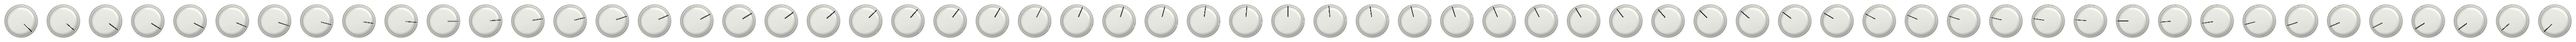
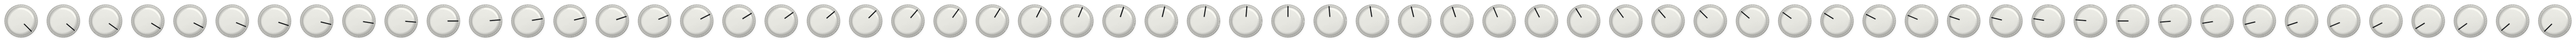
TRENCH look and knob rig, 2 Oct evening
Plate: the display well is cut out of the blue plate and the LCD sits behind it, one pixel shorter at the bottom. The engraved dark TRENCH wordmark is back. The log grid is stronger.
Wheels: only the lit ribs take the lamp colour; Echo brightens those ribs instead of washing the wheel.
KEY: the box is always visible, OFF or the note, with a V arrow on hover; no control takes keyboard focus.
Knob: white strip with a redrawn indicator; the separate shadow image is dropped ahead of a strip with the shadow baked in.
Render rig: Mentor 4333.6001 knob job, sea-salt matte plastic and ink presets, contact-shadow pass, baked shadow, box offsets, strip rotation about the shaft for any front axis. FaceShot can load a body and a KEY choice for the single shot.

Claude-Session: https://claude.ai/code/session_01DBjXcDE6fukEHQE4GySFU2

diff --git a/tools/render_rig/render.py b/tools/render_rig/render.py
@@ -118,11 +118,17 @@ def main():
     os.makedirs(raw_dir, exist_ok=True)
     scene, obj, extras, catcher, mesh_path, ss = build_scene(job, os.path.dirname(job_path))
     written = []
+    baked = None
     if catcher:
         shadow = render_shadow(scene, os.path.join(raw_dir, "shadow.png"), [obj, *extras], catcher, job["shadow"])
+        if "contact" in job["shadow"]:
+            contact = render_shadow(scene, os.path.join(raw_dir, "contact.png"), [obj, *extras], catcher, job["shadow"]["contact"])
+            shadow[..., 3] = 1.0 - (1.0 - shadow[..., 3]) * (1.0 - contact[..., 3])
         target = os.path.join(out_dir, f"{job['name']}_shadow.png")
         post.write(target, post.downsample(shadow, ss))
         written.append(target)
+        if job.get("bake_shadow"):
+            baked = post.downsample(shadow, ss)
     for name, state in job.get("states", {"default": {}}).items():
         merged = apply_state(job, obj, extras, state)
         strip_spec = job.get("filmstrip")
@@ -131,17 +137,17 @@ def main():
             for i in range(strip_spec["frames"]):
                 t = i / max(1, strip_spec["frames"] - 1)
                 angle = math.radians(strip_spec["start_deg"] + t * strip_spec["sweep_deg"])
-                axis, sign = meshes.AXES[job["part"]["front"]]
-                front = [0.0, 0.0, 0.0]
-                front[axis] = float(sign)
-                obj.delta_rotation_quaternion = Quaternion(front, -angle)
+                obj.delta_rotation_quaternion = Quaternion((0.0, 0.0, 1.0), -angle)
                 for e in extras:
                     e.rotation_mode = "QUATERNION"
                     e.delta_rotation_quaternion = Quaternion((0.0, 0.0, 1.0), -angle)
-                frames.append(render_frame(scene, os.path.join(raw_dir, f"{name}_{i:03d}.png"), ss, merged))
+                frame = render_frame(scene, os.path.join(raw_dir, f"{name}_{i:03d}.png"), ss, merged)
+                frames.append(post.over(frame, baked) if baked is not None else frame)
             final = post.strip(frames)
         else:
             final = render_frame(scene, os.path.join(raw_dir, f"{name}.png"), ss, merged)
+            if baked is not None:
+                final = post.over(final, baked)
         target = os.path.join(out_dir, f"{job['name']}_{name}.png")
         post.write(target, final)
         written.append(target)

diff --git a/plugin/source/ui/Theme.h b/plugin/source/ui/Theme.h
@@ -203,6 +203,31 @@ inline void drawBayCaption (juce::Graphics& g, juce::Rectangle<float> r,
     g.drawFittedText (text.toUpperCase(), r.toNearestInt(), juce::Justification::centred, 1);
 }
 
+inline void drawEngravedText (juce::Graphics& g, const juce::String& text,
+                              juce::Rectangle<int> area, juce::Justification just,
+                              juce::Colour ink, float catchAlpha = 0.45f,
+                              juce::Colour catchColour = juce::Colour (0xffe7dec9),
+                              bool extraWeight = false)
+{
+    const auto boneWhite = catchColour;
+    const auto edge = boneWhite.withAlpha (catchAlpha);
+    const auto soft = boneWhite.withAlpha (catchAlpha * 0.18f);
+    g.setColour (soft);
+    g.drawFittedText (text, area.translated (-2, 0), just, 1);
+    g.drawFittedText (text, area.translated ( 2, 0), just, 1);
+    g.drawFittedText (text, area.translated (0, -2), just, 1);
+    g.drawFittedText (text, area.translated (0,  2), just, 1);
+    g.setColour (edge);
+    g.drawFittedText (text, area.translated (0, -1), just, 1);
+    g.drawFittedText (text, area.translated (0,  1), just, 1);
+    g.setColour (boneWhite.withAlpha (catchAlpha * 0.72f));
+    g.drawFittedText (text, area.translated (-1, 0), just, 1);
+    g.drawFittedText (text, area.translated ( 1, 0), just, 1);
+    g.setColour (ink);
+    g.drawFittedText (text, area, just, 1);
+    if (extraWeight)
+        g.drawFittedText (text, area.translated (1, 0), just, 1);
+}
 inline void drawCrispText (juce::Graphics& g, juce::Rectangle<float> b, const juce::String& text,
                            float fontSize, juce::Colour colour, bool emphasis = false)
 {

diff --git a/plugin/source/ui/KeySnapBox.h b/plugin/source/ui/KeySnapBox.h
@@ -71,8 +71,6 @@ public:
         }
         return false;
     }
-    void focusGained (FocusChangeType) override { repaint(); }
-    void focusLost (FocusChangeType) override { repaint(); }
     void paint (juce::Graphics& g) override
     {
         auto b = getLocalBounds().toFloat();
@@ -90,14 +88,20 @@ public:
             g.setColour (t.rollerIllumination().withAlpha (0.28f));
             g.fillRoundedRectangle (box.reduced (2.0f), juce::jmax (1.5f, height * 0.17f - 1.5f));
         }
+        auto text = box.reduced (4.0f, 0.0f);
+        if (hover)
+        {
+            const auto arrow = text.removeFromRight (9.0f).withSizeKeepingCentre (6.0f, 3.5f);
+            juce::Path v;
+            v.startNewSubPath (arrow.getX(), arrow.getY());
+            v.lineTo (arrow.getCentreX(), arrow.getBottom());
+            v.lineTo (arrow.getRight(), arrow.getY());
+            g.setColour (juce::Colour (0xff2a2722));
+            g.strokePath (v, juce::PathStrokeType (1.2f));
+        }
         g.setFont (displayFont (11.5f));
         g.setColour (juce::Colour (0xff2a2722));
-        g.drawText (displayText(), box.reduced (4.0f, 0.0f).toNearestInt(), juce::Justification::centred, false);
-        if (hasKeyboardFocus (true))
-        {
-            g.setColour (t.labelInk());
-            g.drawRoundedRectangle (box.reduced (1.0f), height * 0.17f, 1.0f);
-        }
+        g.drawText (displayText(), text.toNearestInt(), juce::Justification::centred, false);
     }
 private:
     void toggle()

diff --git a/plugin/source/ui/DeskKnob.h b/plugin/source/ui/DeskKnob.h
@@ -22,7 +22,6 @@ public:
         setWantsKeyboardFocus (false);
         setRepaintsOnMouseActivity (true);
         strip = juce::ImageCache::getFromMemory (BinaryData::trench_knob_white_strip_png, BinaryData::trench_knob_white_strip_pngSize);
-        shadow = juce::ImageCache::getFromMemory (BinaryData::trench_knob_black_shadow_png, BinaryData::trench_knob_black_shadow_pngSize);
         if (driveParam != nullptr)
             driveAttachment = std::make_unique<juce::ParameterAttachment> (*driveParam, [this] (float) { updateTooltip(); repaint(); });
         updateTooltip();
@@ -80,7 +79,6 @@ public:
             const auto snap = [scale] (float v) { return std::round (v * scale) / scale; };
             const float x0 = snap (c.x - frameD * 0.5f), y0 = snap (c.y - frameD * 0.5f);
             const float side = snap (c.x + frameD * 0.5f) - x0;
-            g.drawImage (shadow, { x0, y0, side, side }, juce::RectanglePlacement::stretchToFit);
             g.drawImage (strip.getClippedImage ({ frame * frameSize, 0, frameSize, frameSize }),
                          { x0, y0, side, side }, juce::RectanglePlacement::stretchToFit);
         }
@@ -165,7 +163,7 @@ public:
 
 private:
     bool legendVisible = true;
-    juce::Image strip, shadow;
+    juce::Image strip;
     Theme t;
     juce::RangedAudioParameter* driveParam = nullptr;
     juce::String label;

diff --git a/tools/render_rig/rig/materials.py b/tools/render_rig/rig/materials.py
@@ -29,7 +29,8 @@ PRESETS = {
     "black_anodised": dict(Base_Color=(0.02, 0.02, 0.022, 1), Metallic=1.0, Roughness=0.35),
     "black_plastic": dict(Base_Color=(0.012, 0.012, 0.013, 1), Roughness=0.42, Coat_Weight=0.3),
     "bone_plastic":  dict(Base_Color=(0.72, 0.71, 0.66, 1), Roughness=0.5),
-    "sea_salt_plastic": dict(Base_Color=(0.93, 0.89, 0.78, 1), Roughness=0.62, Coat_Weight=0.0, Specular_IOR_Level=0.35),
+    "sea_salt_plastic": dict(Base_Color=(0.93, 0.89, 0.78, 1), Roughness=0.8, Coat_Weight=0.0, Specular_IOR_Level=0.15),
+    "ink":           dict(Base_Color=(0.003, 0.003, 0.004, 1), Roughness=1.0, Specular_IOR_Level=0.0),
     "legend":        dict(Base_Color=(0.92, 0.90, 0.86, 1), Roughness=0.45),
     "cavity":        dict(Base_Color=(0.01, 0.012, 0.013, 1), Roughness=0.6),
     "clear_glass":   dict(Base_Color=(1, 1, 1, 1), Transmission_Weight=1.0, Roughness=0.03, IOR=1.49),

diff --git a/plugin/source/ui/WheelControl.h b/plugin/source/ui/WheelControl.h
@@ -261,7 +261,7 @@ public:
                         const auto c = data.getPixelColour (x, y);
                         if (c.getSaturation() > 0.45f && std::abs (c.getHue() - lampHue) < 0.06f)
                             data.setPixelColour (x, y, juce::Colour::fromHSV (c.getHue(), c.getSaturation() * 0.8f,
-                                                                              juce::jmin (1.0f, c.getBrightness() * 1.6f), c.getFloatAlpha()));
+                                                                              juce::jmin (1.0f, c.getBrightness() * 1.3f), c.getFloatAlpha()));
                     }
             }
             scaledIndex = frame;

diff --git a/plugin/source/ui/LabelsLayer.h b/plugin/source/ui/LabelsLayer.h
@@ -57,8 +57,8 @@ public:
                                 g.drawText (text, box.translated (dx, dy),
                                             juce::Justification::centredLeft, false);
                 }
-                g.setColour (t.textColour ("brandLabel", t.labelInk()));
-                g.drawText (text, box, juce::Justification::centredLeft, false);
+                drawEngravedText (g, text, box, juce::Justification::centredLeft,
+                                  t.textColour ("brandLabel", t.labelInk()), 0.45f);
             }
             const auto sr = t.rect ("brandSub");
             const float sfs = t.fontSize ("brandSub", 9.0f);

diff --git a/plugin/source/UiLayout.h b/plugin/source/UiLayout.h
@@ -52,7 +52,7 @@ public:
         layout.elements["inputReadout"] = { { 154.3f, 1336.0f, 174.4f, 61.2f },  15.5f, juce::Colour (0xff4a3520) };
         layout.elements["outputReadout"] = { { 484.3f, 1336.0f, 174.4f, 61.2f },  15.5f, juce::Colour (0xff4a3520) };
 
-        layout.elements["brandLabel"]   = { { 128.7f, 65.1f, 304.2f, 55.2f }, 17.5f, juce::Colour (0xfff4f7fa) };
+        layout.elements["brandLabel"]   = { { 128.7f, 65.1f, 304.2f, 55.2f }, 17.5f, juce::Colour (0xff0f0c09) };
 
         layout.elements["brandLabel"].text = "TRENCH";
         juce::Colour lamp (0xff96e028);

diff --git a/plugin/tools/FaceShot.cpp b/plugin/tools/FaceShot.cpp
@@ -165,6 +165,14 @@ int main()
 
     if (std::getenv ("TRENCH_FACESHOT_ECHO") != nullptr)
     {
+        if (const char* body = std::getenv ("TRENCH_SHOW_BODY"))
+        {
+            set (ParamID::body, bodyIndex (body));
+            set (ParamID::morph, 0.2f);
+            set (ParamID::q, 0.6f);
+        }
+        if (const char* key = std::getenv ("TRENCH_SHOW_KEY"))
+            set (ParamID::keySnap, (float) std::atoi (key));
         processor.setEchoArmed (true);
         shoot ("trench_face_echo");
         processor.editorBeingDeleted (editor);

diff --git a/tools/render_rig/rig/post.py b/tools/render_rig/rig/post.py
@@ -61,5 +61,14 @@ def downsample(rgba, factor):
     return out
 
 
+def over(top, bottom):
+    ta, ba = top[..., 3:4], bottom[..., 3:4]
+    a = ta + ba * (1.0 - ta)
+    out = np.zeros_like(top)
+    out[..., :3] = np.where(a > 1e-6, (top[..., :3] * ta + bottom[..., :3] * ba * (1.0 - ta)) / np.maximum(a, 1e-6), 0.0)
+    out[..., 3:4] = a
+    return out
+
+
 def strip(frames):
     return np.concatenate(frames, axis=1)

diff --git a/tools/render_rig/rig/meshes.py b/tools/render_rig/rig/meshes.py
@@ -99,6 +99,7 @@ def add_primitive(spec):
         if spec.get("font"):
             t.data.font = bpy.data.fonts.load(spec["font"])
         bpy.ops.object.convert(target="MESH")
+    bpy.context.object.visible_shadow = spec.get("casts_shadow", True)
     if kind in ("disc", "box", "text"):
         bpy.ops.object.shade_smooth_by_angle(angle=math.radians(35.0))
     else:
